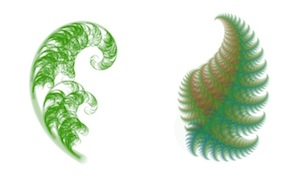
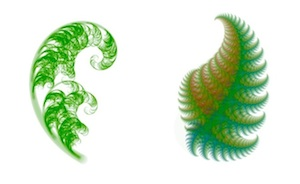
context free OK, font diff

diff --git a/style/basis.less b/style/basis.less
@@ -106,6 +106,7 @@ body {
 			.stealthLink;
 			
 				li {
+					font-family: Didot, Verdana;
 					letter-spacing: 1.5px;
 					
 					border-style: solid;
@@ -210,13 +211,15 @@ body {
 			
 			.vidcan {
 				background-color: #fff;
-				margin: 50px;
+				margin: 35px;
+				padding: 15px;
 				.dropBoxShadow(0, 0, 20px, 0, #ccc);
 			}
 		}
 	}
 	
 	#footer {
+		font-family: Didot;
 		font-size: 11px;
 		text-align: center;
 		padding: 10px;

diff --git a/context_free.php b/context_free.php
@@ -6,13 +6,17 @@ $collection = 'context_free';
 <?php ci('nexuses_TVB_small'); ?>
 
 <div class="alibi">
-    Context Free is a mini language and renderer packaged into one. The 'vision' of the language
-    is recursive expression of shapes. 
-    <br><br>
-    for ahto tekr program the aghsld tis thjus t long.! fjie
-    ahto tekr program the aghsld tis thjus t long.! fjie ahto tekr program the aghsld tis thjus t long.! fjie ahto tekr program the aghsld tis thjus t long.! fjie
+    <a href="http://www.contextfreeart.org/">Context Free</a>
+     is a mini language for describing recursive shapes.
+    Every Context Free design is expressed as a collection of
+    three primitives (circle, square, and triangle) as well as transformations
+    to be applied recursively to these shapes. Each method represents several levels
+    and the shape can pop between methods via a pseudo-random number generator which
+    chooses which of the multiple definitions of a method to use.
+    The language feels organic, being ideal for trees and ferns and other such natural patterns.
 </div>
 
+<?php ci('ferns2'); ?>
 
 <?php ci('fan_SXK'); ?>
 <div class="alibi">
@@ -77,6 +81,12 @@ rule <span class="functionName">SPREET</span> .1 {
 <?php ci2('boilplanet_UNT2', 'boilplanet_tile_DNF'); ?>
 
 <?php ci('boilplanet_YAM'); ?>
+<div class="alibi">
+    I discovered Context Free in 2010 and still find it an almost meditative form of expression.
+    The language is simple and fun to write.
+    And for once in the art world, rendering is really fast! Which means exploring
+    through iterating is a breeze.
+</div>
 
 <?php ci('nexuses_morang_WTI'); ?>
 <?php ci2('boilplanet_YAM_warp', 'nexuses_WUE'); ?>
